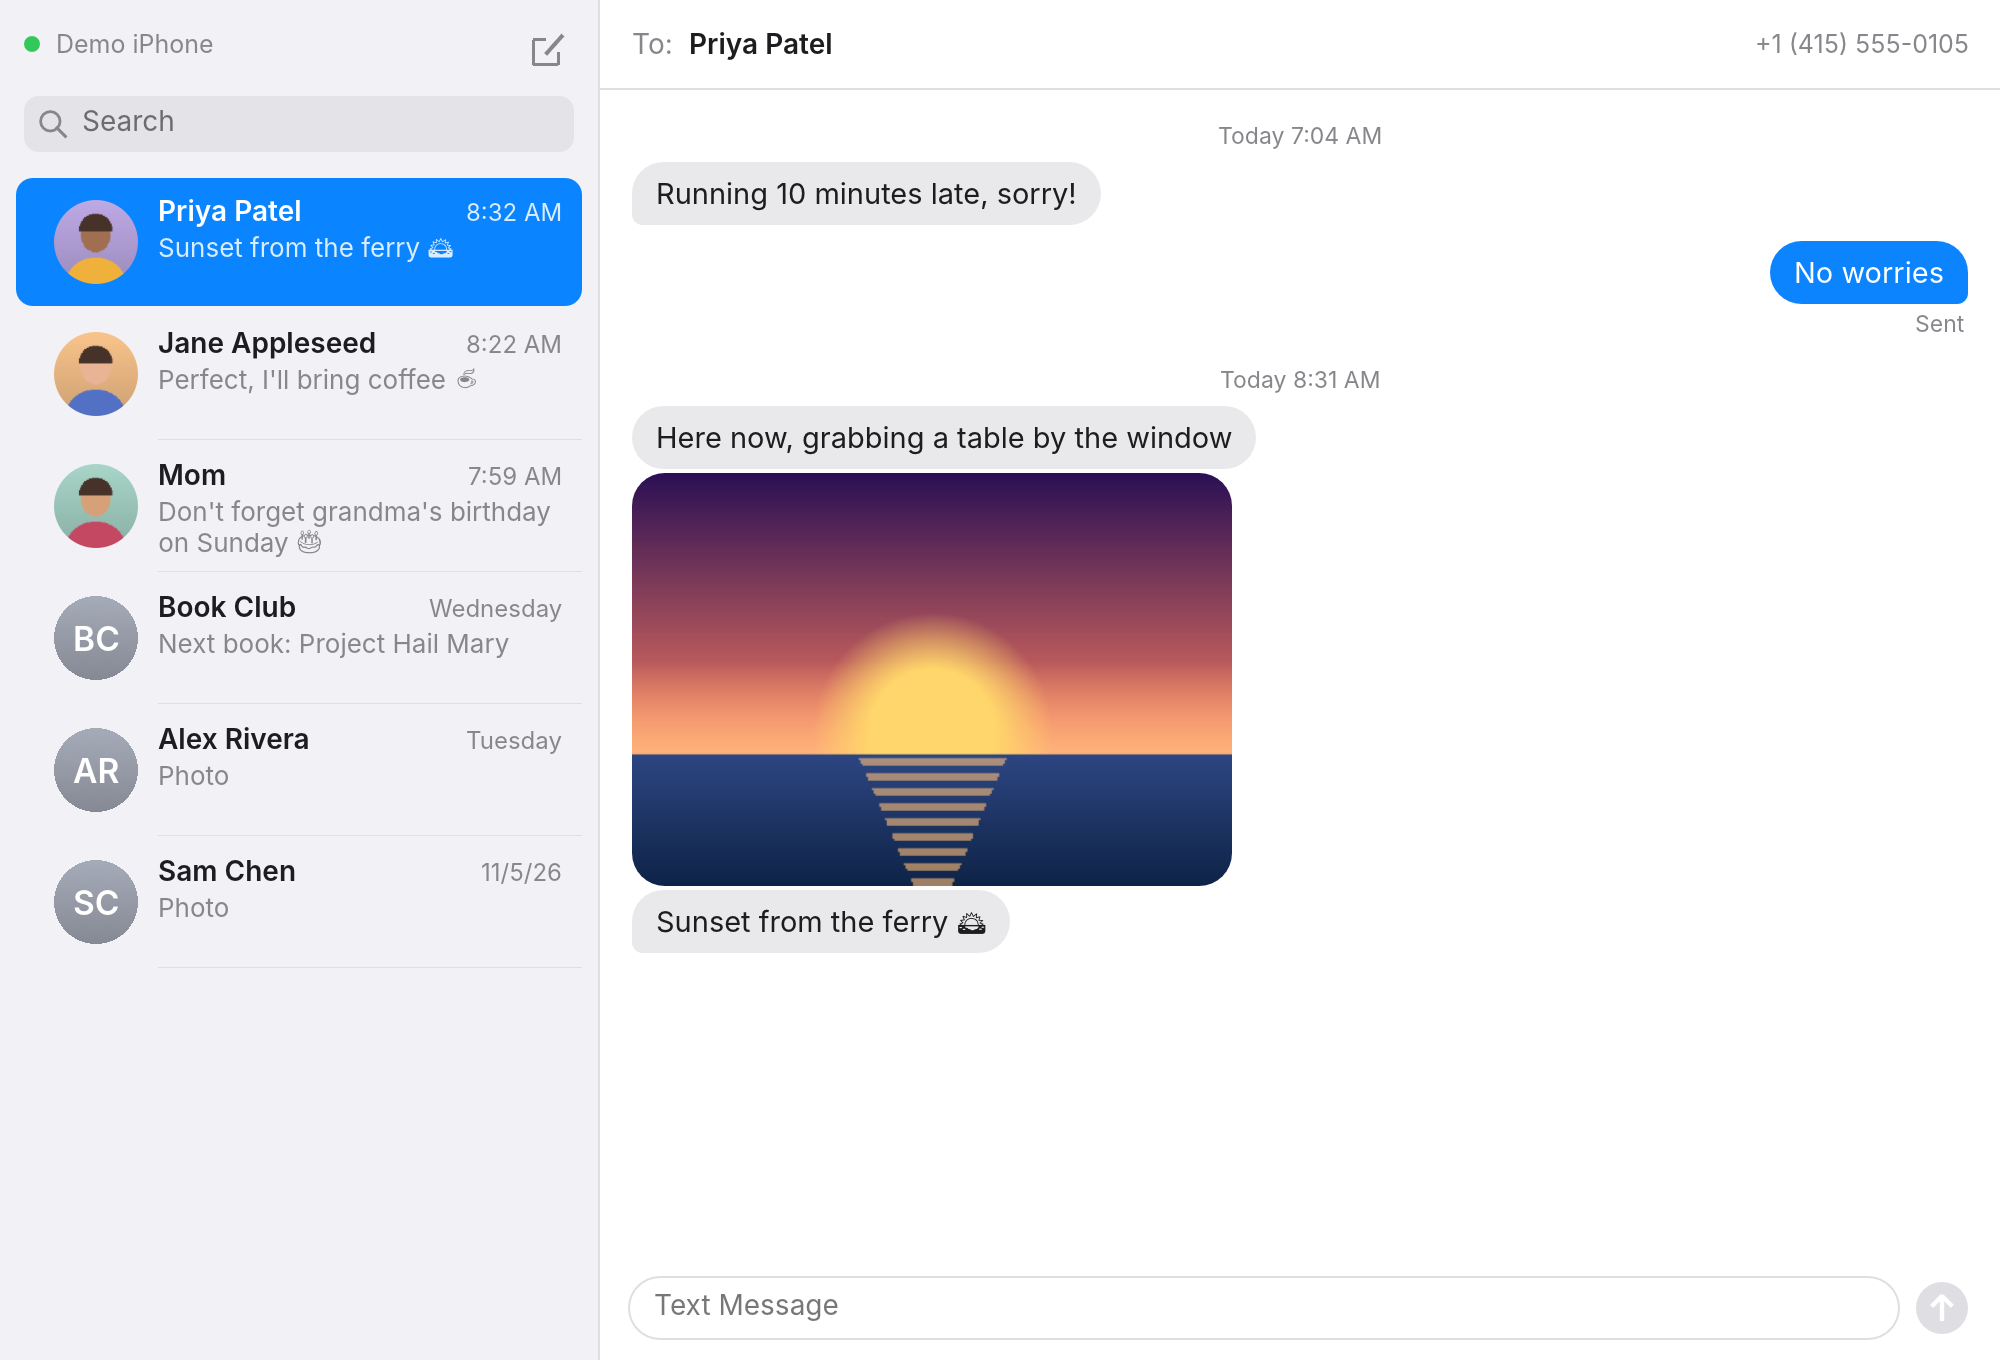
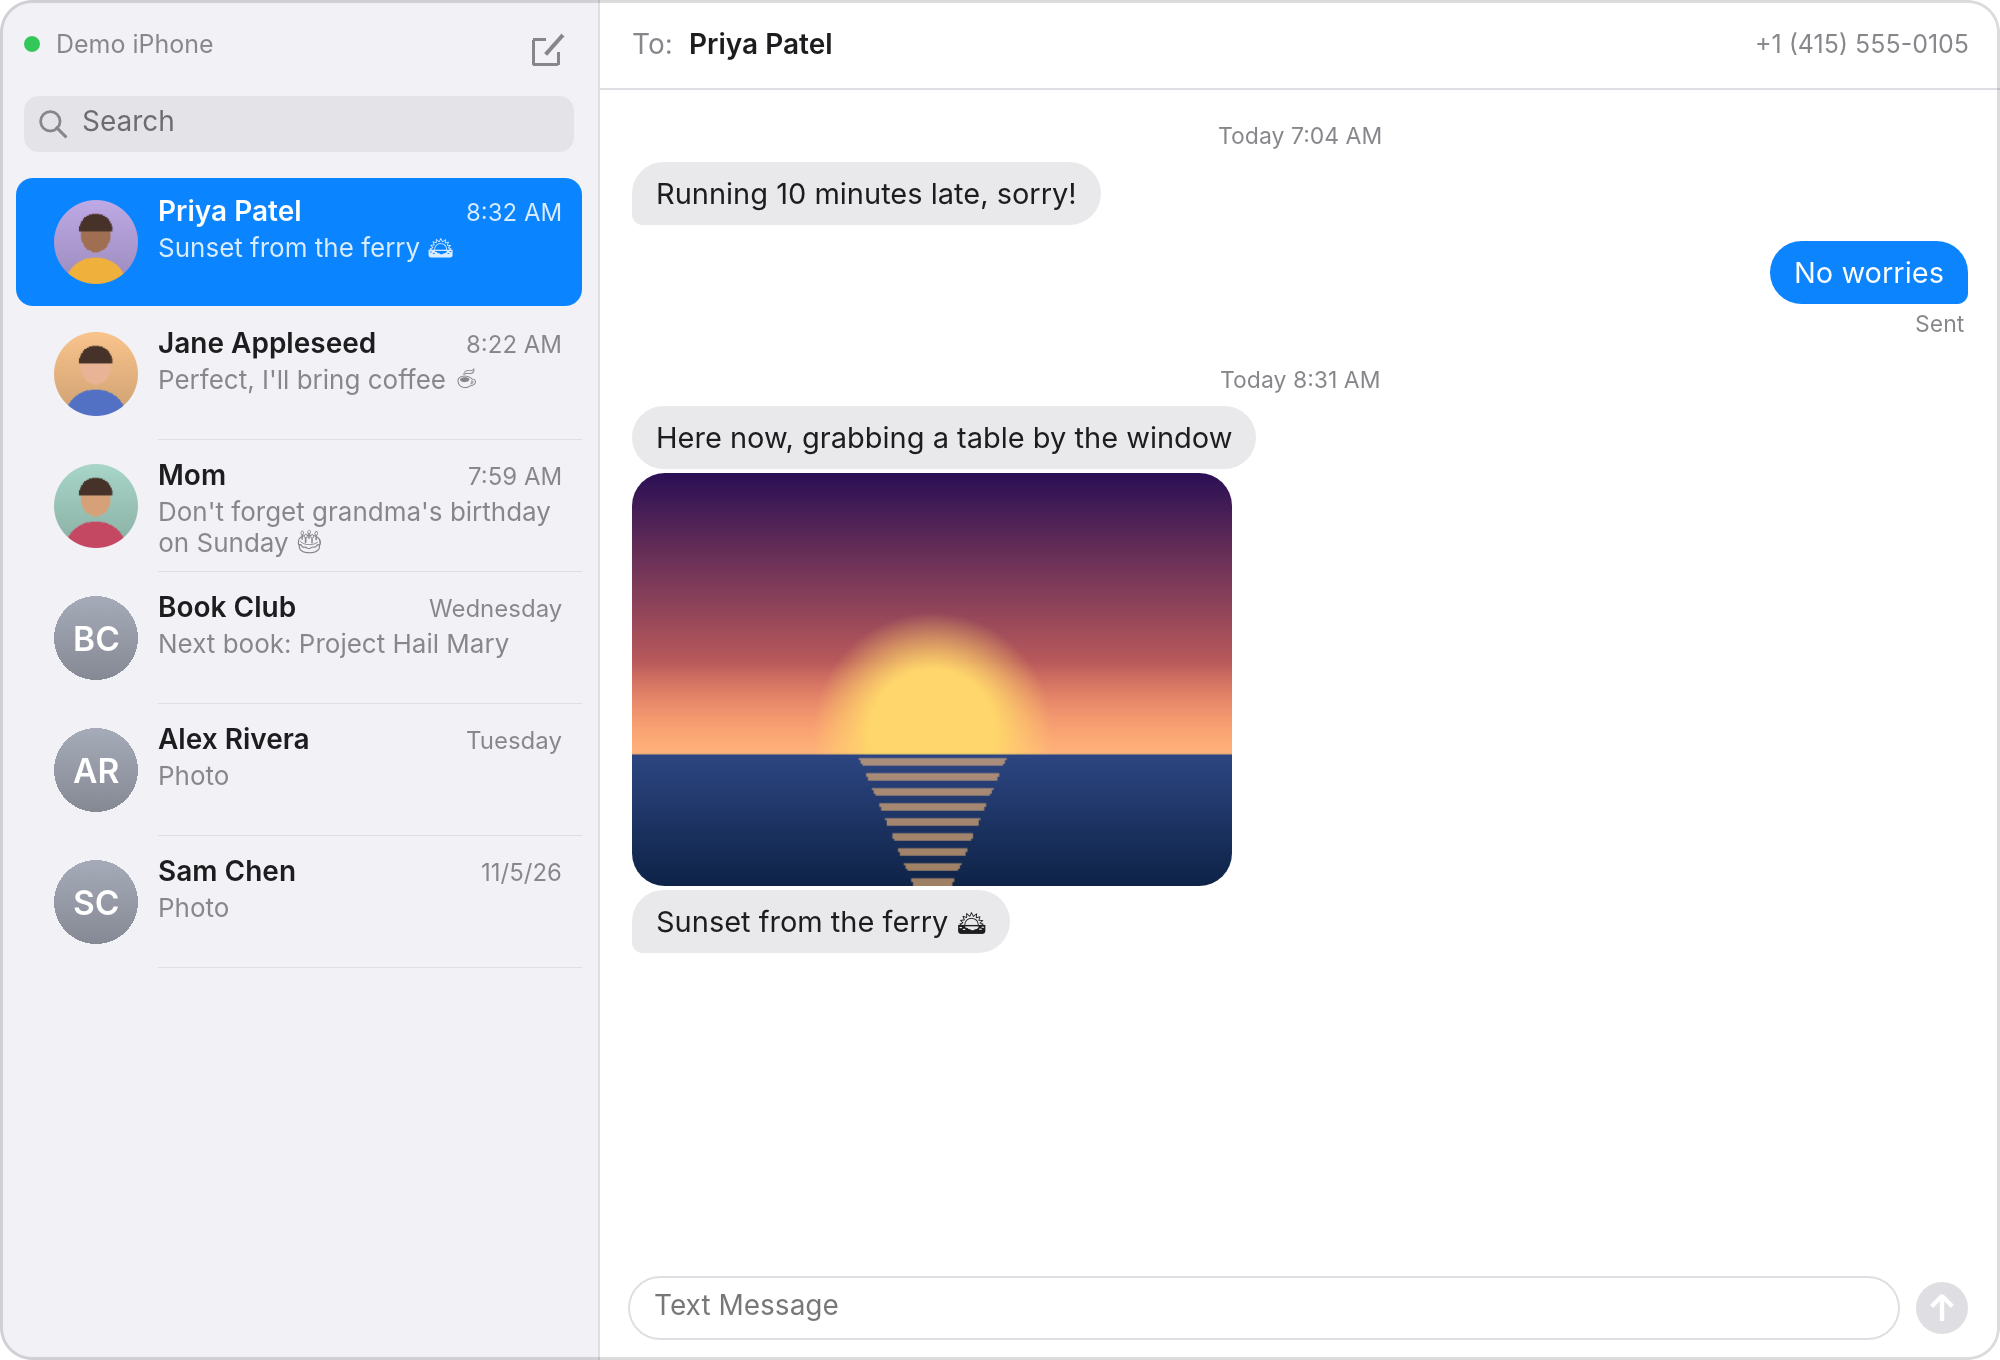
Trim the README and round the screenshots' corners
The README leads with the tagline and one screenshot, and drops the download
table, which the releases page covers, the repository layout, two of the
highlights and the second row of screenshots. The setup guide drops pairing
from a terminal. The screenshots get rounded corners and a faint outline,
baked into the images, as GitHub ignores styles in READMEs.

Claude-Session: https://claude.ai/code/session_017iHZiE49iffT3b2C6sMqfK

Changed region(s): [[0.0, 0.0, 1.0, 1.0]]

diff --git a/README.md b/README.md
@@ -6,54 +6,28 @@
   <a href="https://github.com/ianmarmour/Ferry/actions/workflows/ci.yml"><img src="https://github.com/ianmarmour/Ferry/actions/workflows/ci.yml/badge.svg" alt="CI"></a>
   <a href="LICENSE"><img src="https://img.shields.io/badge/license-MIT-0A7E86" alt="License: MIT"></a>
   <img src="https://img.shields.io/badge/rust-1.95%2B-0A7E86?logo=rust" alt="Rust 1.95+">
-  <a href="#platforms"><img src="https://img.shields.io/badge/platforms-Linux%20%7C%20Windows%20%7C%20macOS-0A7E86" alt="Platforms: Linux, Windows, macOS"></a>
+  <a href="https://github.com/ianmarmour/Ferry/releases/latest"><img src="https://img.shields.io/badge/platforms-Linux%20%7C%20Windows%20%7C%20macOS-0A7E86" alt="Platforms: Linux, Windows, macOS"></a>
 </p>
 
-**Text from your computer through your iPhone, with nothing to install on the phone.**
-
-Ferry brings your iPhone's messages to your Linux, Windows or Mac desktop
-over Bluetooth. Read your conversations, reply, and start new ones with anyone
-in your contacts, in a window styled after Messages on the Mac. It talks to the
-phone the way a car does, so there's no app to install on the iPhone, no Mac to
-relay through and no cloud service in between.
+**Text from your computer through your iPhone.**
 
 <p align="center">
   <img src="docs/screenshots/conversation-light.png" width="800" alt="A conversation in Ferry, with a photo">
 </p>
 
+Ferry brings your iPhone's messages to your Linux, Windows or Mac desktop
+over Bluetooth. Read your conversations, reply, and start new ones with anyone
+in your contacts, in a window styled after Messages on the Mac.
+
 ## Highlights
 
-- **Nothing on the Phone** - Ferry uses the Bluetooth profiles car kits use:
-  the Message Access Profile for messages and the Phone Book Access Profile
-  for contacts. Pair once, turn on two switches on the iPhone, and you're set.
-- **Feels Like Messages** - Conversations with contact photos, bubbles grouped
-  by time, delivery status, photos inline, and light and dark modes.
+- **No Applications Required** - Ferry uses the Bluetooth profiles car kits
+  use: the Message Access Profile for messages and the Phone Book Access
+  Profile for contacts. Pair once, turn on two switches on the iPhone, and
+  you're set.
 - **Stays Out of the Way** - New messages raise desktop notifications, and
   closing the window keeps Ferry connected in the system tray.
-- **Private** - Messages travel over a direct, encrypted Bluetooth link between
-  your phone and your computer, and are kept only on your computer.
-- **Multi Platform** - One app for Linux, Windows and macOS, built on the
-  [`obex-protocol`](https://crates.io/crates/obex-protocol) and
-  [`obex-protocol-map`](https://crates.io/crates/obex-protocol-map) crates.
-
-## Platforms
-
-| Platform | Download |
-|---|---|
-| Linux (x86_64) | [APPIMAGE](https://github.com/ianmarmour/Ferry/releases/latest/download/ferry-linux-x86_64.AppImage), [RPM](https://github.com/ianmarmour/Ferry/releases/latest/download/ferry-linux-x86_64.rpm), [DEB](https://github.com/ianmarmour/Ferry/releases/latest/download/ferry-linux-x86_64.deb), [TARBALL](https://github.com/ianmarmour/Ferry/releases/latest/download/ferry-linux-x86_64.tar.gz) |
-| Windows (x64) | [ZIP](https://github.com/ianmarmour/Ferry/releases/latest/download/ferry-windows-x64.zip) |
-| macOS (Apple silicon) | [APP](https://github.com/ianmarmour/Ferry/releases/latest/download/ferry-macos-app.zip) |
-
-Every download is on the
-[latest release](https://github.com/ianmarmour/Ferry/releases/latest), and
-the [setup guide](docs/setup.md) walks through pairing your iPhone and running
-Ferry on each platform. To look around without a phone, run
-`ferry --demo`, which connects to a simulated iPhone.
-
-<p align="center">
-  <img src="docs/screenshots/conversation-dark.png" width="49%" alt="Ferry in dark mode">
-  <img src="docs/screenshots/new-message.png" width="49%" alt="Starting a new message, with contacts from the iPhone">
-</p>
+- **Multi Platform** - One app for Linux, Windows and macOS.
 
 ## Documentation
 
@@ -64,21 +38,6 @@ Ferry on each platform. To look around without a phone, run
 - **[How It Works](docs/architecture.md)**: how Ferry talks to the phone,
   and how the code fits together.
 - **[Releasing](docs/releasing.md)**: how a release is built and published.
-
-## Repository layout
-
-| Path | What it is |
-|---|---|
-| [`src/bluetooth`](src/bluetooth) | The Bluetooth backends: BlueZ on Linux, WinRT on Windows, IOBluetooth on macOS, and the simulated iPhone |
-| [`src/session.rs`](src/session.rs) | The worker that talks to the phone over MAP and PBAP |
-| [`src/model.rs`](src/model.rs), [`src/contacts.rs`](src/contacts.rs), [`src/text.rs`](src/text.rs) | Messages, conversations, contacts and their cache |
-| [`src/pbap.rs`](src/pbap.rs) | A Phone Book Access client on `obex-protocol` |
-| [`src/ui`](src/ui), [`src/notify.rs`](src/notify.rs) | The window, tray icon and desktop notifications |
-| [`tests`](tests) | End-to-end tests against the simulated iPhone, BlueZ and the tray |
-| [`assets`](assets) | The icon, the banner and their renderings |
-| [`packaging/linux`](packaging/linux) | The Linux packages: Debian package, RPM and AppImage |
-| [`macos`](macos) | The macOS app bundle |
-| [`docs`](docs) | User and developer guides |
 
 ## Contributing
 

diff --git a/docs/setup.md b/docs/setup.md
@@ -10,23 +10,6 @@ the iPhone.
 2. On the computer, open the system's Bluetooth settings, choose the iPhone
    and confirm that both screens show the same code.
 
-On Linux you can also pair from a terminal with `bluetoothctl`:
-
-```text
-power on
-agent on
-default-agent
-menu scan
-transport bredr
-back
-scan on
-```
-
-Wait for a line with your iPhone's name, then `scan off`,
-`pair <address>` and `trust <address>`. Limiting the scan to `bredr`
-(classic Bluetooth) hides the nameless addresses that nearby Bluetooth Low
-Energy devices advertise.
-
 ## 2. Allow messages and contacts
 
 On the iPhone, open **Settings › Bluetooth**, tap **ⓘ** next to your computer,
